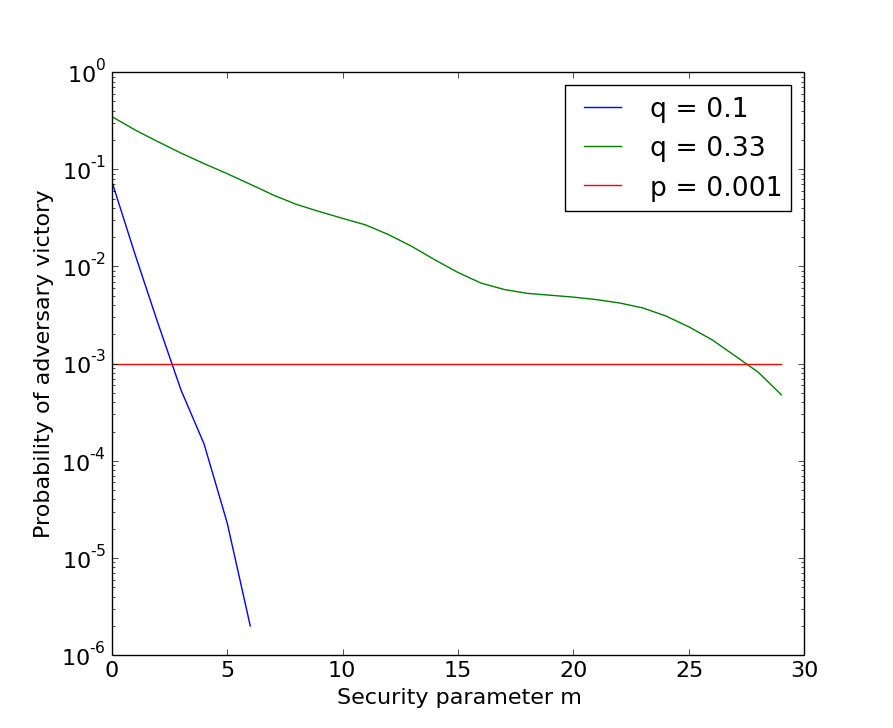
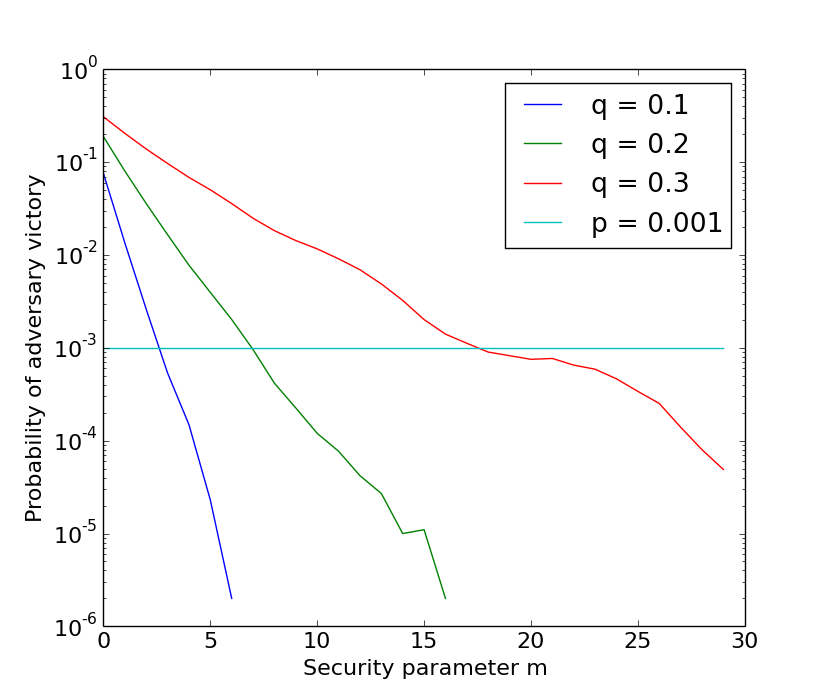
Update experiment for q in {.1, .2, .3}

diff --git a/whitepaper/parameterization.tex b/whitepaper/parameterization.tex
@@ -33,17 +33,20 @@ with various values of $m$ for $y = 100$, indicating $100$ blocks of secret
 parallel mining. We make the simplifying assumption that honest party
 communication is perfect and immediate, meaning that all honest party rounds
 that are successful are also uniquely successful. We ran $1,000,000$ Monte
-Carlo executions of the experiment for each value of $m$ from $1$ to $30$. We
-ran the simulation for values close to the two values of computational power
-percentage used in \cite{bitcoin}, $q = 0.1$ and $q = 0.33$. The results are
-plotted in Figure~\ref{fig.nipopow-attack-experiment}.
+Carlo executions \footnote{The URL to the GitHub repository of this
+MIT-licensed experiment has been redacted for anonymity and will be provided in
+the proceedings version of this paper.} of the experiment for each value of $m$
+from $1$ to $30$. We ran the simulation for values of computational power
+percentage $q = 0.1$, $q = 0.2$ and $q = 0.3$. The results are plotted in
+Figure~\ref{fig.nipopow-attack-experiment}.
 
 \begin{figure}[h]
     \caption{\label{fig.nipopow-attack-experiment}
         Simulation results for a private mining attacker with $q = 0.1$ and $q
-        = 0.33$ computational power, suffix security $k = 6$ and parallel
+        = 0.3$ computational power, suffix security $k = 6$ and parallel
         mining parameter $y = 100$. Probabilities are plotted on a logarithmic
-        scale. The threshold probability of \cite{bitcoin} is indicated in red.
+        scale. The threshold probability of \cite{bitcoin} is indicated by the
+        horizontal line.
     }
     \centering
     \includegraphics[width=0.5\textwidth,keepaspectratio]{figures/nipopow-attack-experiment.png}
